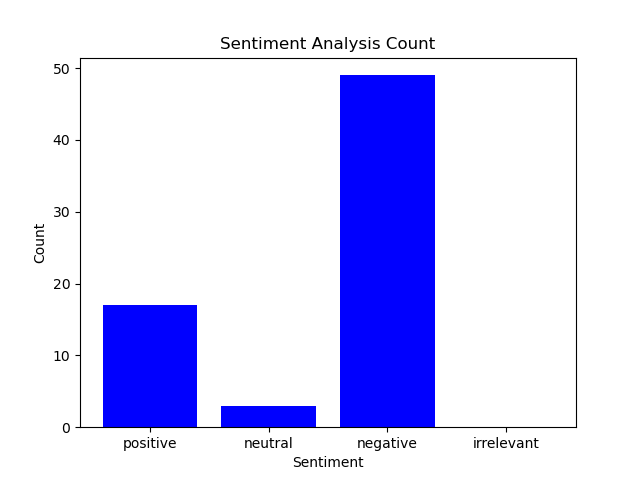
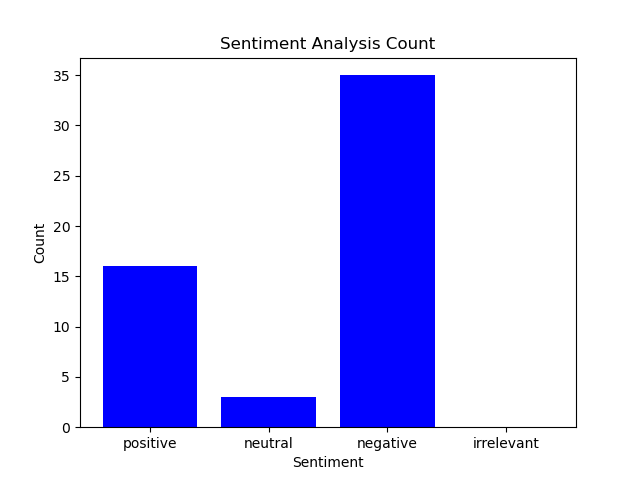
Complete write up

diff --git a/label.py b/label.py
@@ -12,7 +12,7 @@ def get_sentiment(text: list) -> list:
         list: A list of strings representing the sentiment of each review including
         'positive', 'neutral', 'negative' or 'irrelevant'.
     """
-    system_prompt = """You are an expert in interpreting human sentiment across different cultures. Ensure each review (each item in the list) should be evaluated as a whole and not just by the keywords. For example, a review may start with 'I want to love this ....' but end with 'I was shocked with how disgusting the taste was.' This would be categorized as a negative even though there may be positive words like love and excited. 
+    system_prompt = """You are an expert in interpreting human sentiment across different cultures. Ensure each review (each item in the list) should be evaluated as a whole and not just by the keywords. For example, a review may start with 'I want to love this ....' but end with 'I was shocked with how disgusting the taste was.' This would be categorized as a negative even though there may be positive words like love and excited. Try to be as quick and consistent as possible. Thank you.
     """
 
     prompt = f"""
@@ -46,9 +46,11 @@ def get_sentiment(text: list) -> list:
 
     sentiments = {'positive':[], 'neutral':[], 'negative':[], 'irrelevant':[]}
 
-    for data in range(len(text)):
-        sentiments[output[data]].append(text[data])
+    # for data in range(len(text)):
+    #     sentiments[output[data]].append(text[data])
 
+    # for key in sentiments:
+    #     print(len(sentiments[key]))
         
     # with open("sentiment_output.json", "w") as file:
     #     json.dump(sentiments, file, indent=4)

diff --git a/writeup.md b/writeup.md
@@ -8,10 +8,10 @@ The most common sentiment observed in my sample of 50 reviews is negative.
 
 How reliable do you believe these labels are? Look at the respective labels OpenAI has generated for specific reviews, does it seem like the large language model accurately described the user's review? What risk do model hallucinations introduce into this analysis?
 
-[Answer here]
+Not all of the reviews were labeled accurately. There were also more sentiments labeled than there were reviews. Running the program again also resulted in different sentiments ratios despite having the same prompt. Model hallucinations will result in an inaccurate analysis on the reviews.
 
 ## Question 3
 
 Using the most common sentiment, what would you recommend to this Coconut Water producer to improve customer satisfaction? Should they continue to pursue current market/product outcomes, or does there exist an opportunity for this business to improve its product?
 
-[Answer here]
+The most common sentiment is negative. There are several reviews that expressed that the previous packaging and formula was better. The business can improve their product and satisfaction by bringing back the boxed packaging and old formula. 
